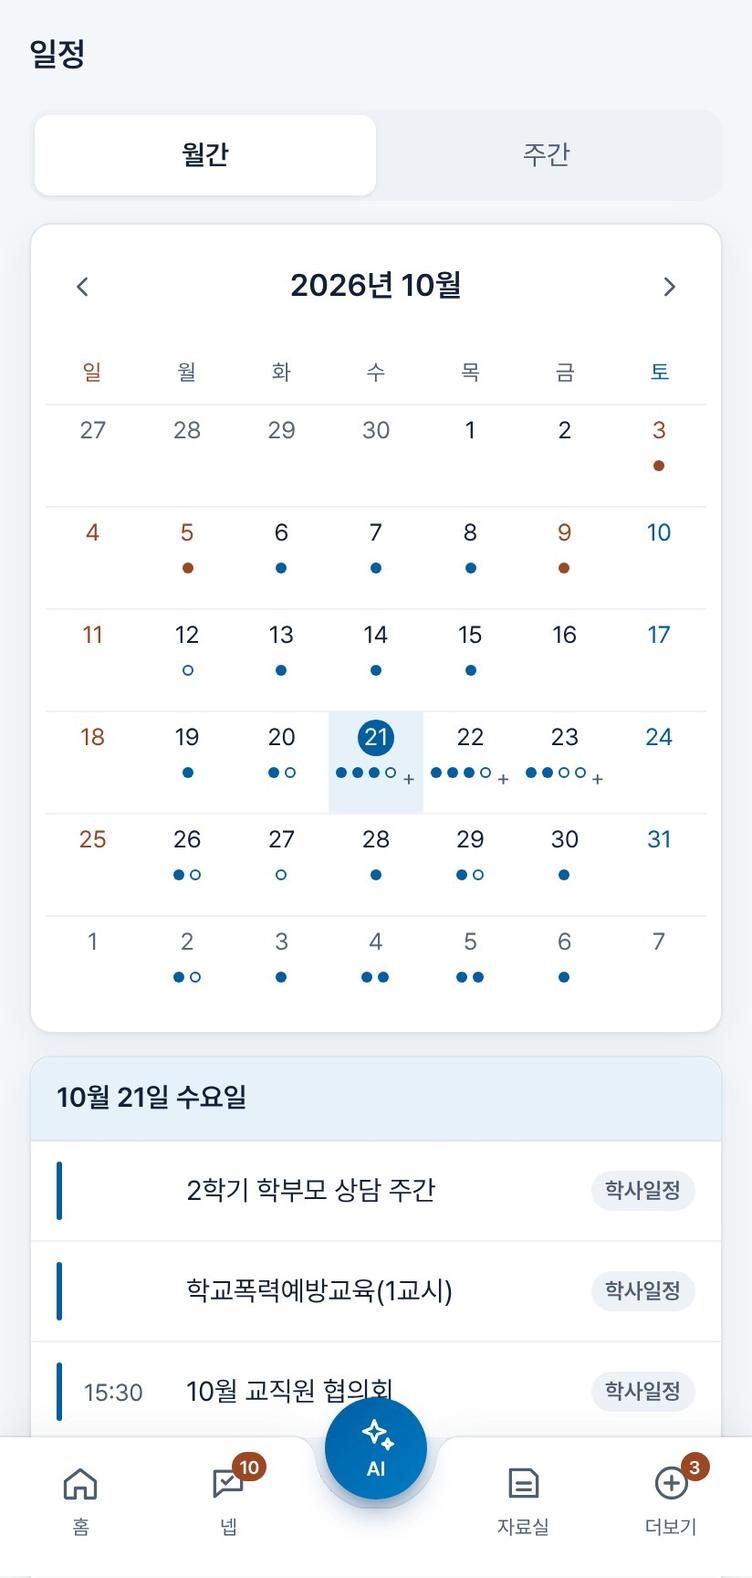
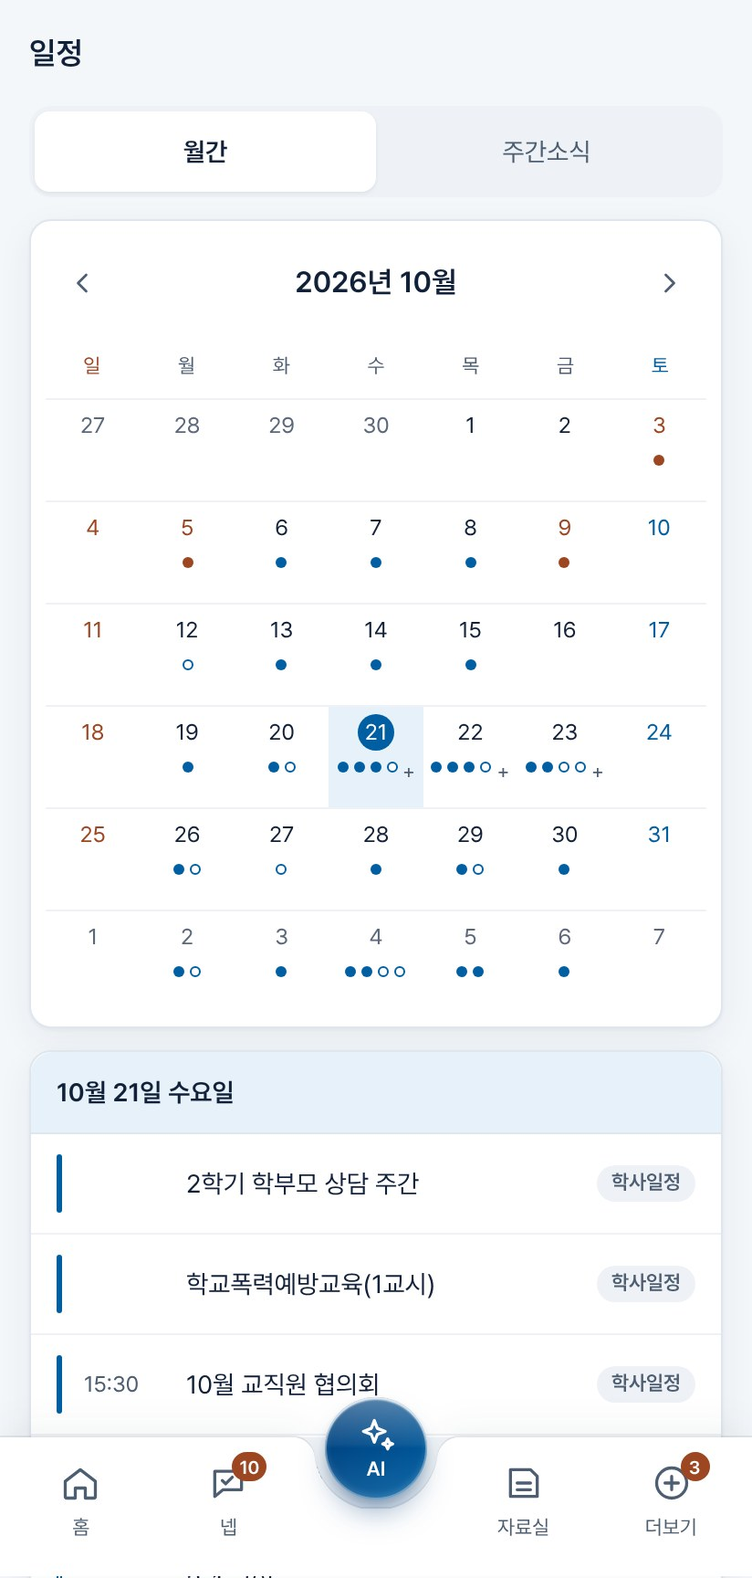
홈 화면 바뀐 것(10/28) 반영 — 빼꼼 판·내 수업/내 일정 두 칸, 오늘 알림 카드 없앰, 저녁 7시 내일 화면
- 홈·홈 아래·빼꼼 그림을 지금 앱으로 다시 찍음(빼꼼 알림판 첫 줄 「금주의 기도제목」, 숨긴 구기대회 카드 빠짐)
- 일정 「월간 | 주간소식」·주간소식 「나에게만」 그림과 설명, 옛 「주간」 목록 그림(calendar-list) 지움
- 첫 화면 「10월 28일에 바뀐 것」, 자주 묻는 질문(오늘 알림 카드·저녁 내일 화면)

Claude-Session: https://claude.ai/code/session_01PnRkvZMXyWQ3PDuECRmpn5

diff --git a/img/rects.js b/img/rects.js
@@ -1,3 +1,3 @@
 /* 화면마다 동그라미 칠 자리(412×864 기준, 찍을 때 잰 값) — R(화면, 키) */
-window.SHOT_RECTS = {"ai-board": {"button": [31, 446, 162, 40], "card": [16, 286, 380, 213], "head": [31, 297, 177, 20], "question": [73, 68, 323, 98]}, "ai-deep": {"answer": [16, 202, 323, 464], "feedback": [20, 672, 41, 36], "question": [73, 68, 323, 124]}, "ai-deep-ready": {"deep": [72, 588, 211, 34], "file": [16, 499, 380, 38], "input": [72, 634, 268, 72], "plus": [16, 658, 48, 48], "send": [348, 658, 48, 48]}, "ai-form": {"answer": [16, 124, 323, 308], "feedback": [20, 438, 41, 36], "links": [267, 372, 37, 19], "question": [147, 68, 249, 46]}, "ai-home": {"chip_first": [16, 202, 380, 46], "chips": [16, 201, 380, 236], "clear": [333, 12, 71, 44], "greet": [16, 100, 380, 30], "head": [16, 16, 74, 36], "hello": [16, 134, 380, 39], "input": [72, 658, 268, 48], "mic": [348, 658, 48, 48], "notice": [16, 718, 380, 33], "plus": [16, 658, 48, 48], "tab_ai": [166, 792, 81, 44]}, "ai-lesson": {"body": [31, 501, 350, 482], "card": [16, 260, 380, 834], "head": [17, 261, 378, 41], "question": [73, 68, 323, 72]}, "ai-lesson-2": {"body": [31, 48, 350, 482], "button": [31, 560, 111, 40]}, "ai-letter": {"body": [31, 620, 350, 274], "card": [16, 286, 380, 671], "head": [17, 287, 378, 41], "question": [73, 68, 323, 72]}, "ai-letter-2": {"body": [31, 276, 350, 274], "button": [31, 560, 151, 40], "feedback": [20, 619, 41, 36]}, "ai-library": {"answer": [16, 124, 323, 438], "feedback": [20, 568, 41, 36], "links": [65, 450, 37, 19], "question": [133, 68, 263, 46]}, "ai-lost": {"button": [31, 586, 84, 40], "card": [16, 312, 380, 327], "photo": [31, 366, 96, 96], "question": [73, 68, 323, 124]}, "ai-nep": {"button": [31, 726, 84, 40], "card": [16, 286, 380, 493], "edit": [127, 738, 89, 16], "people": [31, 589, 350, 84], "question": [73, 68, 323, 72]}, "ai-number": {"button": [31, 449, 96, 40], "card": [16, 260, 380, 242], "question": [81, 68, 315, 46]}, "ai-parent": {"answer": [16, 150, 323, 386], "feedback": [20, 542, 41, 36], "question": [73, 68, 323, 72]}, "ai-plus": {"attach": [22, 523, 284, 60], "close": [16, 658, 48, 48], "deep": [22, 584, 284, 60], "menu": [16, 517, 296, 133]}, "ai-progress": {"button": [31, 504, 108, 40], "card": [16, 286, 380, 271], "question": [73, 68, 323, 72]}, "ai-recruit": {"button": [31, 546, 68, 40], "card": [16, 312, 380, 287], "question": [73, 68, 323, 72], "reason": [31, 480, 350, 35]}, "ai-repair": {"button": [31, 576, 96, 40], "card": [16, 260, 380, 369], "head": [17, 261, 378, 41], "question": [73, 68, 323, 72]}, "ai-sign": {"button": [31, 705, 175, 40], "card": [16, 286, 380, 472], "people": [31, 544, 350, 151], "question": [73, 68, 323, 72]}, "ai-swap": {"calendar": [31, 364, 75, 14], "card": [16, 312, 380, 703], "question": [73, 68, 323, 72]}, "ai-typed": {"input": [72, 658, 268, 48], "plus": [16, 658, 48, 48], "send": [348, 658, 48, 48]}, "ai-week": {"answer": [16, 124, 323, 308], "feedback": [20, 438, 41, 36], "question": [214, 68, 182, 46]}, "alerts": {}, "alerts-done": {"clear": [316, 379, 80, 44], "summary": [16, 331, 380, 44]}, "board-alert": {"all": [174, 569, 92, 40], "fire": [150, 233, 113, 56], "kind": [266, 137, 112, 44], "offline": [31, 679, 350, 16], "presets": [31, 233, 350, 118], "submit": [31, 701, 350, 50]}, "board-alert-confirm": {"cancel": [16, 804, 136, 44], "go": [160, 804, 236, 44], "sheet": [0, 0, 412, 864], "text": [16, 720, 380, 72], "where": [16, 668, 380, 40]}, "board-grades": {"g1": [31, 531, 113, 40], "g2": [150, 531, 113, 40], "offline": [31, 602, 350, 16], "submit": [31, 624, 350, 50]}, "board-memo": {"body": [31, 233, 350, 110], "kind": [150, 137, 112, 44], "note": [31, 358, 350, 32], "submit": [31, 600, 350, 50]}, "board-photo": {"body": [31, 233, 350, 110], "photoChip": [105, 358, 90, 36], "submit": [31, 701, 350, 50], "thumb": [43, 456, 103, 80]}, "board-pick": {"all": [16, 535, 380, 44], "done": [16, 798, 380, 50], "grid": [16, 591, 380, 94], "legend": [16, 697, 380, 32], "off": [170, 641, 71, 44], "tabs": [16, 481, 380, 42]}, "board-send": {"body": [31, 233, 350, 110], "kinds": [31, 134, 350, 50], "mine": [272, 485, 109, 40], "options": [31, 358, 350, 78], "submit": [31, 602, 350, 50], "what": [31, 204, 350, 21], "where": [31, 456, 350, 115]}, "board-sent": {"done": [31, 528, 90, 22], "end": [31, 408, 50, 36], "live": [82, 381, 34, 16], "liveChip": [31, 378, 96, 22], "over": [31, 677, 88, 22], "reserve": [300, 129, 81, 16], "tabs": [247, 59, 134, 42], "unshown": [126, 733, 100, 22], "waitChip": [31, 185, 69, 22]}, "board-voice-rec": {"status": [43, 336, 326, 92], "stop": [287, 388, 82, 40]}, "calendar": {"today": [196, 394, 20, 20]}, "calendar-list": {}, "exam-card": {"ends": [31, 178, 350, 161], "head": [31, 87, 152, 20], "slots": [31, 134, 350, 32], "stats": [31, 351, 350, 73]}, "exam-card-pad": {"legend": [31, 150, 350, 16], "n24": [183, 307, 47, 40], "n7": [334, 195, 47, 40], "n9": [82, 239, 47, 40], "names": [31, 403, 350, 113], "stats": [31, 41, 350, 73]}, "exam-card-save": {"names": [31, 292, 350, 113], "note": [31, 470, 350, 48], "save": [31, 550, 350, 50]}, "forms": {"trip": [17, 110, 378, 56]}, "found": {"head": [16, 24, 380, 71]}, "home": {"bell": [360, 22, 44, 44], "changed": [339, 669, 29, 16], "hero": [16, 106, 380, 66], "nep": [61, 503, 198, 26], "now": [160, 611, 33, 16], "tabAi": [166, 792, 81, 44], "tabMore": [327, 792, 81, 61], "tabNep": [85, 792, 81, 61], "tiles": [275, 354, 121, 94], "tt": [31, 569, 93, 21]}, "home-3": {"alerts": [31, 16, 55, 21], "meal": [31, 376, 26, 21], "upcoming": [31, 533, 81, 21]}, "home-sports": {"card": [16, 16, 380, 493], "link": [16, 16, 380, 493]}, "library": {"chips": [72, 214, 52, 39], "pinned": [16, 282, 380, 95], "search": [52, 169, 331, 23], "write": [310, 720, 86, 48]}, "library-new": {"kind": [206, 440, 172, 36], "section": [31, 120, 350, 48], "submit": [31, 624, 350, 50], "title": [31, 210, 350, 48]}, "library-post": {"download": [31, 211, 350, 44]}, "library-search": {"result": [16, 282, 380, 95], "search": [52, 169, 331, 23]}, "login": {"go": [58, 554, 296, 50], "name": [58, 299, 296, 48], "pw": [58, 467, 296, 48]}, "lost-found": {"add": [126, 679, 161, 54], "box": [16, 76, 380, 680], "item": [184, 368, 81, 81], "note": [16, 756, 380, 43], "returned": [286, 16, 110, 44], "student": [251, 767, 50, 13]}, "lost-found-2": {"add": [126, 643, 161, 54], "note": [16, 720, 380, 43], "student": [251, 731, 50, 13]}, "lost-found-add": {"photo": [16, 154, 380, 212], "place": [16, 558, 380, 73], "submit": [149, 863, 247, 44]}, "lost-found-detail": {"back": [16, 804, 380, 44], "info": [16, 572, 380, 133]}, "meals": {}, "more-2": {"lost": [17, 228, 378, 56], "noti": [17, 524, 378, 56], "sign": [17, 376, 378, 56], "signature": [17, 580, 378, 56]}, "more-tools": {"board": [17, 383, 378, 56], "lost": [17, 643, 378, 56], "tools": [17, 439, 378, 56]}, "more-top": {"avatar": [107, 128, 203, 17]}, "nep-add": {"add": [16, 448, 253, 44]}, "nep-big": {"sheet": [0, 0, 412, 864]}, "nep-board": {"meter": [16, 173, 380, 76], "pending": [16, 261, 380, 21], "remind": [16, 328, 380, 44]}, "nep-board-replies": {"replies": [17, 509, 378, 37]}, "nep-board-submit": {"downloadAll": [275, 420, 121, 44]}, "nep-cal": {"events": [35, 292, 55, 20], "post": [35, 438, 342, 44]}, "nep-compose": {"plus": [16, 808, 44, 44], "send": [312, 808, 84, 44], "text": [16, 85, 380, 144], "to": [53, 52, 49, 25]}, "nep-compose-due": {"chip": [16, 237, 152, 29], "due": [43, 281, 261, 36], "send": [312, 808, 84, 44]}, "nep-fwd": {"card": [12, 276, 341, 358], "fwd": [307, 281, 39, 36]}, "nep-fwd-org": {"banner": [30, 148, 316, 40], "bar": [284, 702, 104, 41]}, "nep-inbox": {"chip": [341, 457, 51, 21], "me": [0, 128, 412, 68], "recruit": [0, 264, 412, 68], "row": [0, 196, 412, 68], "tabs": [16, 76, 380, 48], "unread": [372, 230, 20, 20]}, "nep-inbox-2": {"over": [332, 725, 60, 21], "park": [0, 623, 412, 68], "parkChip": [332, 657, 60, 21]}, "nep-link": {"ack": [27, 315, 60, 44], "card": [12, 118, 341, 254], "link": [27, 245, 311, 60]}, "nep-me": {"card": [12, 118, 341, 360], "events": [27, 281, 55, 20], "head": [0, 0, 412, 61]}, "nep-me-due": {"chip": [12, 649, 152, 29], "input": [64, 685, 260, 68], "last": [12, 423, 341, 360], "plus": [12, 709, 44, 44], "send": [332, 709, 68, 44]}, "nep-org": {"all": [14, 136, 384, 70], "dept": [15, 382, 382, 45], "deptCheck": [349, 383, 44, 44], "search": [348, 20, 44, 44], "tabInbox": [144, 80, 124, 40], "tabs": [16, 76, 380, 48], "top": [15, 248, 382, 89]}, "nep-org-groups": {"role": [15, 505, 382, 44], "roleCheck": [349, 505, 44, 44], "subj": [15, 417, 382, 45], "subjCheck": [349, 418, 44, 44]}, "nep-org-open": {"card": [15, 120, 382, 270], "check": [349, 256, 44, 44], "head": [349, 121, 44, 44], "me": [35, 352, 310, 32], "name": [35, 262, 310, 32]}, "nep-org-picked": {"bar": [14, 692, 384, 61], "checks": [15, 165, 382, 225], "write": [283, 702, 105, 41]}, "nep-org-search": {"found": [35, 277, 310, 32], "input": [50, 82, 298, 36]}, "nep-plus": {"ack": [16, 536, 380, 56], "files": [16, 472, 380, 56], "schedule": [16, 728, 380, 56], "sheet": [0, 0, 412, 864], "submit": [16, 664, 380, 56], "task": [16, 600, 380, 56], "urgent": [16, 792, 380, 56]}, "nep-recruit": {"apply": [27, 628, 72, 44], "card": [12, 502, 341, 182], "duty": [12, 308, 341, 184], "head": [0, 0, 412, 61], "old": [12, 34, 341, 230], "oldState": [27, 159, 127, 44]}, "nep-room": {"bubble": [209, 643, 191, 63], "card": [12, 276, 341, 358], "done": [27, 576, 72, 44], "due": [27, 530, 311, 36], "head": [0, 0, 412, 61], "input": [64, 709, 260, 44], "plus": [12, 709, 44, 44], "send": [332, 709, 68, 44]}, "nep-room-done": {"done": [27, 576, 100, 44]}, "nep-room-menu": {"dots": [360, 10, 40, 40], "item": [241, 59, 158, 44]}, "nep-room-reply": {"input": [64, 808, 260, 44], "last": [12, 397, 341, 129], "mine": [131, 289, 269, 63], "send": [332, 808, 68, 44], "theirs": [12, 118, 341, 162]}, "nep-sent": {"one": [0, 264, 412, 68], "progress": [0, 468, 412, 68], "sched": [0, 128, 412, 68], "tabs": [16, 76, 380, 48]}, "nep-swipe": {"clear": [328, 196, 84, 68], "row": [0, 196, 412, 68]}, "notifications-off": {"nurse": [333, 308, 48, 28], "on": [62, 147, 319, 44]}, "notifications-on": {"nurse": [333, 390, 48, 28], "test": [63, 177, 318, 44]}, "nurse": {"open": [31, 139, 350, 50]}, "password": {"go": [31, 297, 350, 50], "new": [31, 121, 350, 48]}, "pc-noti": {"on": [56, 89, 325, 20], "test": [56, 165, 325, 44], "tray": [56, 121, 325, 32]}, "pg-class": {"chips": [16, 77, 380, 96], "csv": [304, 17, 92, 44]}, "pg-month": {"left": [33, 354, 346, 17], "nav": [16, 205, 380, 40], "row": [16, 396, 380, 118], "streak": [299, 270, 80, 21], "summary": [16, 257, 380, 127], "toggle": [16, 139, 380, 54]}, "pg-month-2": {"legend": [16, 614, 380, 40], "off": [77, 57, 24, 32], "row": [16, 267, 380, 118], "star": [53, 64, 16, 17], "today": [77, 91, 24, 32], "todo": [53, 342, 24, 32]}, "pg-month-pick": {"head": [31, 89, 121, 21], "slot": [17, 300, 378, 29]}, "pg-today": {"card": [16, 229, 380, 142], "date": [68, 139, 216, 44], "map": [206, 80, 187, 44], "save": [309, 703, 87, 44], "segment": [16, 77, 380, 50]}, "pg-today-classes": {"classes": [17, 524, 378, 46], "row": [17, 667, 378, 48]}, "pg-week": {"hint": [16, 605, 380, 17], "list": [16, 139, 380, 54], "nav": [16, 205, 380, 40], "toggle": [16, 139, 380, 54]}, "pg-week-pick": {"head": [31, 400, 120, 21], "row": [17, 142, 378, 72]}, "record": {"privacy": [16, 42, 253, 16]}, "record-activities": {"activities": [31, 170, 350, 425], "subject": [31, 88, 350, 48]}, "record-input": {"count": [31, 403, 350, 48], "tabs": [16, 90, 380, 50], "upload": [31, 485, 350, 21]}, "record-kinds": {"gwasetuk": [31, 265, 65, 20]}, "record-options": {"generate": [31, 383, 350, 50], "length": [31, 61, 350, 21], "model": [31, 301, 350, 48]}, "record-result": {"basis": [31, 532, 350, 90], "result": [31, 330, 350, 166]}, "sign-file": {"doc": [312, 103, 56, 21], "sign": [31, 181, 252, 48]}, "sign-file-new": {"file": [31, 110, 350, 117], "hint": [31, 192, 350, 35], "title": [31, 271, 350, 48], "who": [31, 335, 350, 23]}, "sign-file-new-bottom": {"me": [31, 667, 350, 21], "next": [31, 705, 350, 44]}, "sign-list": {"file": [30, 89, 157, 26], "meeting": [226, 90, 155, 26], "todo": [16, 166, 380, 23]}, "sign-meeting": {"hand": [295, 141, 71, 17], "roster": [17, 234, 378, 464], "sign": [31, 126, 252, 48]}, "sign-meeting-new": {"chips": [76, 455, 95, 40], "picker": [31, 401, 350, 44], "title": [31, 120, 350, 48], "when": [31, 212, 169, 48]}, "sign-meeting-new-bottom": {"group": [71, 452, 310, 48], "me": [31, 617, 350, 21], "members": [31, 511, 350, 62], "submit": [31, 705, 350, 44]}, "sign-mine": {}, "signature": {"default": [267, 96, 112, 21], "hand": [16, 77, 380, 302], "stamp": [16, 391, 380, 302]}, "signature-draw": {"pad": [17, 567, 378, 224], "save": [338, 804, 58, 44]}, "signature-empty": {"draw": [33, 318, 100, 44], "stamp": [33, 633, 130, 44]}, "sports": {"bracket": [16, 77, 380, 262], "match": [29, 394, 354, 129], "rounds": [98, 352, 50, 32], "score": [116, 176, 17, 14]}, "sub-calc": {"calendar": [31, 466, 350, 21], "date": [31, 316, 169, 44], "go": [31, 501, 350, 44], "periods": [31, 374, 350, 113], "reason": [212, 316, 169, 44], "tabs": [16, 77, 380, 50], "teacher": [31, 229, 350, 44]}, "sub-dates": {"byHand": [278, 520, 71, 17], "dates": [43, 117, 255, 68], "request": [31, 508, 235, 40], "tools": [31, 460, 350, 36]}, "sub-inbox": {"pending": [16, 316, 380, 21], "proxy": [31, 651, 220, 40], "register": [16, 139, 380, 44], "rooms": [16, 243, 380, 65], "tab": [268, 80, 125, 44]}, "sub-requests": {"accept": [31, 611, 185, 40], "byHand": [228, 623, 71, 17], "card": [16, 407, 380, 257], "reject": [307, 611, 56, 40], "tab": [206, 80, 187, 44]}, "sub-result": {"calendar": [31, 120, 350, 42], "date": [43, 317, 279, 40], "firstStep": [31, 264, 350, 23], "plan1": [31, 207, 350, 49]}, "today": {"board": [31, 90, 52, 21], "days": [178, 271, 42, 23], "mynep": [31, 926, 42, 21]}, "today-2": {"changes": [17, 302, 378, 46], "events": [31, 72, 69, 21]}, "tt-class": {"picker": [16, 135, 380, 44], "tabs": [16, 77, 380, 50]}, "tt-free": {"name": [31, 395, 60, 40], "rooms": [16, 212, 380, 123], "teachers": [16, 347, 380, 343]}, "tt-free-nep": {}, "tt-my": {"away": [191, 516, 61, 87], "band": [191, 226, 61, 87], "changed": [191, 606, 61, 68], "pending": [322, 317, 61, 68], "picker": [16, 135, 380, 44], "tabs": [16, 77, 380, 50], "today": [191, 389, 61, 68]}, "tt-pop": {"band": [191, 226, 61, 87], "pop": [29, 317, 354, 115]}, "weekly": {}};
+window.SHOT_RECTS = {"ai-board": {"button": [31, 446, 162, 40], "card": [16, 286, 380, 213], "head": [31, 297, 177, 20], "question": [73, 68, 323, 98]}, "ai-deep": {"answer": [16, 202, 323, 464], "feedback": [20, 672, 41, 36], "question": [73, 68, 323, 124]}, "ai-deep-ready": {"deep": [72, 588, 211, 34], "file": [16, 499, 380, 38], "input": [72, 634, 268, 72], "plus": [16, 658, 48, 48], "send": [348, 658, 48, 48]}, "ai-form": {"answer": [16, 124, 323, 308], "feedback": [20, 438, 41, 36], "links": [267, 372, 37, 19], "question": [147, 68, 249, 46]}, "ai-home": {"chip_first": [16, 202, 380, 46], "chips": [16, 201, 380, 236], "clear": [333, 12, 71, 44], "greet": [16, 100, 380, 30], "head": [16, 16, 74, 36], "hello": [16, 134, 380, 39], "input": [72, 658, 268, 48], "mic": [348, 658, 48, 48], "notice": [16, 718, 380, 33], "plus": [16, 658, 48, 48], "tab_ai": [166, 792, 81, 44]}, "ai-lesson": {"body": [31, 501, 350, 482], "card": [16, 260, 380, 834], "head": [17, 261, 378, 41], "question": [73, 68, 323, 72]}, "ai-lesson-2": {"body": [31, 48, 350, 482], "button": [31, 560, 111, 40]}, "ai-letter": {"body": [31, 620, 350, 274], "card": [16, 286, 380, 671], "head": [17, 287, 378, 41], "question": [73, 68, 323, 72]}, "ai-letter-2": {"body": [31, 276, 350, 274], "button": [31, 560, 151, 40], "feedback": [20, 619, 41, 36]}, "ai-library": {"answer": [16, 124, 323, 438], "feedback": [20, 568, 41, 36], "links": [65, 450, 37, 19], "question": [133, 68, 263, 46]}, "ai-lost": {"button": [31, 586, 84, 40], "card": [16, 312, 380, 327], "photo": [31, 366, 96, 96], "question": [73, 68, 323, 124]}, "ai-nep": {"button": [31, 726, 84, 40], "card": [16, 286, 380, 493], "edit": [127, 738, 89, 16], "people": [31, 589, 350, 84], "question": [73, 68, 323, 72]}, "ai-number": {"button": [31, 449, 96, 40], "card": [16, 260, 380, 242], "question": [81, 68, 315, 46]}, "ai-parent": {"answer": [16, 150, 323, 386], "feedback": [20, 542, 41, 36], "question": [73, 68, 323, 72]}, "ai-plus": {"attach": [22, 523, 284, 60], "close": [16, 658, 48, 48], "deep": [22, 584, 284, 60], "menu": [16, 517, 296, 133]}, "ai-progress": {"button": [31, 504, 108, 40], "card": [16, 286, 380, 271], "question": [73, 68, 323, 72]}, "ai-recruit": {"button": [31, 546, 68, 40], "card": [16, 312, 380, 287], "question": [73, 68, 323, 72], "reason": [31, 480, 350, 35]}, "ai-repair": {"button": [31, 576, 96, 40], "card": [16, 260, 380, 369], "head": [17, 261, 378, 41], "question": [73, 68, 323, 72]}, "ai-sign": {"button": [31, 705, 175, 40], "card": [16, 286, 380, 472], "people": [31, 544, 350, 151], "question": [73, 68, 323, 72]}, "ai-swap": {"calendar": [31, 364, 75, 14], "card": [16, 312, 380, 703], "question": [73, 68, 323, 72]}, "ai-typed": {"input": [72, 658, 268, 48], "plus": [16, 658, 48, 48], "send": [348, 658, 48, 48]}, "ai-week": {"answer": [16, 124, 323, 308], "feedback": [20, 438, 41, 36], "question": [214, 68, 182, 46]}, "alerts": {}, "alerts-done": {"clear": [316, 379, 80, 44], "summary": [16, 331, 380, 44]}, "board-alert": {"all": [174, 569, 92, 40], "fire": [150, 233, 113, 56], "kind": [266, 137, 112, 44], "offline": [31, 679, 350, 16], "presets": [31, 233, 350, 118], "submit": [31, 701, 350, 50]}, "board-alert-confirm": {"cancel": [16, 804, 136, 44], "go": [160, 804, 236, 44], "sheet": [0, 0, 412, 864], "text": [16, 720, 380, 72], "where": [16, 668, 380, 40]}, "board-grades": {"g1": [31, 531, 113, 40], "g2": [150, 531, 113, 40], "offline": [31, 602, 350, 16], "submit": [31, 624, 350, 50]}, "board-memo": {"body": [31, 233, 350, 110], "kind": [150, 137, 112, 44], "note": [31, 358, 350, 32], "submit": [31, 600, 350, 50]}, "board-photo": {"body": [31, 233, 350, 110], "photoChip": [105, 358, 90, 36], "submit": [31, 701, 350, 50], "thumb": [43, 456, 103, 80]}, "board-pick": {"all": [16, 535, 380, 44], "done": [16, 798, 380, 50], "grid": [16, 591, 380, 94], "legend": [16, 697, 380, 32], "off": [170, 641, 71, 44], "tabs": [16, 481, 380, 42]}, "board-send": {"body": [31, 233, 350, 110], "kinds": [31, 134, 350, 50], "mine": [272, 485, 109, 40], "options": [31, 358, 350, 78], "submit": [31, 602, 350, 50], "what": [31, 204, 350, 21], "where": [31, 456, 350, 115]}, "board-sent": {"done": [31, 528, 90, 22], "end": [31, 408, 50, 36], "live": [82, 381, 34, 16], "liveChip": [31, 378, 96, 22], "over": [31, 677, 88, 22], "reserve": [300, 129, 81, 16], "tabs": [247, 59, 134, 42], "unshown": [126, 733, 100, 22], "waitChip": [31, 185, 69, 22]}, "board-voice-rec": {"status": [43, 336, 326, 92], "stop": [287, 388, 82, 40]}, "calendar": {"grid": [16, 120, 380, 443], "seg": [206, 61, 187, 44], "today": [196, 391, 20, 20]}, "exam-card": {"ends": [31, 178, 350, 161], "head": [31, 87, 152, 20], "slots": [31, 134, 350, 32], "stats": [31, 351, 350, 73]}, "exam-card-pad": {"legend": [31, 150, 350, 16], "n24": [183, 307, 47, 40], "n7": [334, 195, 47, 40], "n9": [82, 239, 47, 40], "names": [31, 403, 350, 113], "stats": [31, 41, 350, 73]}, "exam-card-save": {"names": [31, 292, 350, 113], "note": [31, 470, 350, 48], "save": [31, 550, 350, 50]}, "forms": {"trip": [17, 110, 378, 56]}, "found": {"head": [16, 24, 380, 71]}, "home": {"bell": [360, 16, 44, 44], "changed": [326, 606, 55, 71], "hero": [16, 96, 380, 61], "hint": [16, 402, 380, 44], "nep": [16, 478, 380, 54], "now": [149, 606, 55, 71], "peek": [16, 168, 380, 142], "pill": [282, 179, 101, 28], "tabAi": [166, 792, 81, 44], "tabMore": [327, 792, 81, 61], "tabNep": [85, 792, 81, 61], "tileLesson": [16, 322, 186, 72], "tileSched": [210, 322, 186, 72], "tiles": [16, 322, 380, 72], "tt": [321, 545, 68, 44]}, "home-3": {"cal": [349, 430, 40, 44], "meal": [31, 291, 24, 20], "upcoming": [31, 442, 76, 20], "weekly": [280, 430, 64, 44]}, "home-sports": {"card": [16, 16, 380, 493], "link": [16, 16, 380, 493]}, "library": {"chips": [72, 214, 52, 39], "pinned": [16, 282, 380, 95], "search": [52, 169, 331, 23], "write": [310, 720, 86, 48]}, "library-new": {"kind": [206, 440, 172, 36], "section": [31, 120, 350, 48], "submit": [31, 624, 350, 50], "title": [31, 210, 350, 48]}, "library-post": {"download": [31, 211, 350, 44]}, "library-search": {"result": [16, 282, 380, 95], "search": [52, 169, 331, 23]}, "login": {"go": [58, 554, 296, 50], "name": [58, 299, 296, 48], "pw": [58, 467, 296, 48]}, "lost-found": {"add": [126, 679, 161, 54], "box": [16, 76, 380, 680], "item": [184, 368, 81, 81], "note": [16, 756, 380, 43], "returned": [286, 16, 110, 44], "student": [251, 767, 50, 13]}, "lost-found-2": {"add": [126, 643, 161, 54], "note": [16, 720, 380, 43], "student": [251, 731, 50, 13]}, "lost-found-add": {"photo": [16, 154, 380, 212], "place": [16, 558, 380, 73], "submit": [149, 863, 247, 44]}, "lost-found-detail": {"back": [16, 804, 380, 44], "info": [16, 572, 380, 133]}, "meals": {}, "more-2": {"lost": [17, 228, 378, 56], "noti": [17, 524, 378, 56], "sign": [17, 376, 378, 56], "signature": [17, 580, 378, 56]}, "more-tools": {"board": [17, 383, 378, 56], "lost": [17, 643, 378, 56], "tools": [17, 439, 378, 56]}, "more-top": {"avatar": [107, 128, 203, 17]}, "nep-add": {"add": [16, 448, 253, 44]}, "nep-big": {"sheet": [0, 0, 412, 864]}, "nep-board": {"meter": [16, 173, 380, 76], "pending": [16, 261, 380, 21], "remind": [16, 328, 380, 44]}, "nep-board-replies": {"replies": [17, 509, 378, 37]}, "nep-board-submit": {"downloadAll": [275, 420, 121, 44]}, "nep-cal": {"events": [35, 292, 55, 20], "post": [35, 438, 342, 44]}, "nep-compose": {"plus": [16, 808, 44, 44], "send": [312, 808, 84, 44], "text": [16, 85, 380, 144], "to": [53, 52, 49, 25]}, "nep-compose-due": {"chip": [16, 237, 152, 29], "due": [43, 281, 261, 36], "send": [312, 808, 84, 44]}, "nep-fwd": {"card": [12, 276, 341, 358], "fwd": [307, 281, 39, 36]}, "nep-fwd-org": {"banner": [30, 148, 316, 40], "bar": [284, 702, 104, 41]}, "nep-inbox": {"chip": [341, 457, 51, 21], "me": [0, 128, 412, 68], "recruit": [0, 264, 412, 68], "row": [0, 196, 412, 68], "tabs": [16, 76, 380, 48], "unread": [372, 230, 20, 20]}, "nep-inbox-2": {"over": [332, 725, 60, 21], "park": [0, 623, 412, 68], "parkChip": [332, 657, 60, 21]}, "nep-link": {"ack": [27, 315, 60, 44], "card": [12, 118, 341, 254], "link": [27, 245, 311, 60]}, "nep-me": {"card": [12, 118, 341, 360], "events": [27, 281, 55, 20], "head": [0, 0, 412, 61]}, "nep-me-due": {"chip": [12, 649, 152, 29], "input": [64, 685, 260, 68], "last": [12, 423, 341, 360], "plus": [12, 709, 44, 44], "send": [332, 709, 68, 44]}, "nep-org": {"all": [14, 136, 384, 70], "dept": [15, 382, 382, 45], "deptCheck": [349, 383, 44, 44], "search": [348, 20, 44, 44], "tabInbox": [144, 80, 124, 40], "tabs": [16, 76, 380, 48], "top": [15, 248, 382, 89]}, "nep-org-groups": {"role": [15, 505, 382, 44], "roleCheck": [349, 505, 44, 44], "subj": [15, 417, 382, 45], "subjCheck": [349, 418, 44, 44]}, "nep-org-open": {"card": [15, 120, 382, 270], "check": [349, 256, 44, 44], "head": [349, 121, 44, 44], "me": [35, 352, 310, 32], "name": [35, 262, 310, 32]}, "nep-org-picked": {"bar": [14, 692, 384, 61], "checks": [15, 165, 382, 225], "write": [283, 702, 105, 41]}, "nep-org-search": {"found": [35, 277, 310, 32], "input": [50, 82, 298, 36]}, "nep-plus": {"ack": [16, 536, 380, 56], "files": [16, 472, 380, 56], "schedule": [16, 728, 380, 56], "sheet": [0, 0, 412, 864], "submit": [16, 664, 380, 56], "task": [16, 600, 380, 56], "urgent": [16, 792, 380, 56]}, "nep-recruit": {"apply": [27, 628, 72, 44], "card": [12, 502, 341, 182], "duty": [12, 308, 341, 184], "head": [0, 0, 412, 61], "old": [12, 34, 341, 230], "oldState": [27, 159, 127, 44]}, "nep-room": {"bubble": [209, 643, 191, 63], "card": [12, 276, 341, 358], "done": [27, 576, 72, 44], "due": [27, 530, 311, 36], "head": [0, 0, 412, 61], "input": [64, 709, 260, 44], "plus": [12, 709, 44, 44], "send": [332, 709, 68, 44]}, "nep-room-done": {"done": [27, 576, 100, 44]}, "nep-room-menu": {"dots": [360, 10, 40, 40], "item": [241, 59, 158, 44]}, "nep-room-reply": {"input": [64, 808, 260, 44], "last": [12, 397, 341, 129], "mine": [131, 289, 269, 63], "send": [332, 808, 68, 44], "theirs": [12, 118, 341, 162]}, "nep-sent": {"one": [0, 264, 412, 68], "progress": [0, 468, 412, 68], "sched": [0, 128, 412, 68], "tabs": [16, 76, 380, 48]}, "nep-swipe": {"clear": [328, 196, 84, 68], "row": [0, 196, 412, 68]}, "notifications-off": {"nurse": [333, 308, 48, 28], "on": [62, 147, 319, 44]}, "notifications-on": {"nurse": [333, 390, 48, 28], "test": [63, 177, 318, 44]}, "nurse": {"open": [31, 139, 350, 50]}, "password": {"go": [31, 297, 350, 50], "new": [31, 121, 350, 48]}, "pc-noti": {"on": [56, 89, 325, 20], "test": [56, 165, 325, 44], "tray": [56, 121, 325, 32]}, "pg-class": {"chips": [16, 77, 380, 96], "csv": [304, 17, 92, 44]}, "pg-month": {"left": [33, 354, 346, 17], "nav": [16, 205, 380, 40], "row": [16, 396, 380, 118], "streak": [299, 270, 80, 21], "summary": [16, 257, 380, 127], "toggle": [16, 139, 380, 54]}, "pg-month-2": {"legend": [16, 614, 380, 40], "off": [77, 57, 24, 32], "row": [16, 267, 380, 118], "star": [53, 64, 16, 17], "today": [77, 91, 24, 32], "todo": [53, 342, 24, 32]}, "pg-month-pick": {"head": [31, 89, 121, 21], "slot": [17, 300, 378, 29]}, "pg-today": {"card": [16, 229, 380, 142], "date": [68, 139, 216, 44], "map": [206, 80, 187, 44], "save": [309, 703, 87, 44], "segment": [16, 77, 380, 50]}, "pg-today-classes": {"classes": [17, 524, 378, 46], "row": [17, 667, 378, 48]}, "pg-week": {"hint": [16, 605, 380, 17], "list": [16, 139, 380, 54], "nav": [16, 205, 380, 40], "toggle": [16, 139, 380, 54]}, "pg-week-pick": {"head": [31, 400, 120, 21], "row": [17, 142, 378, 72]}, "record": {"privacy": [16, 42, 253, 16]}, "record-activities": {"activities": [31, 170, 350, 425], "subject": [31, 88, 350, 48]}, "record-input": {"count": [31, 403, 350, 48], "tabs": [16, 90, 380, 50], "upload": [31, 485, 350, 21]}, "record-kinds": {"gwasetuk": [31, 265, 65, 20]}, "record-options": {"generate": [31, 383, 350, 50], "length": [31, 61, 350, 21], "model": [31, 301, 350, 48]}, "record-result": {"basis": [31, 532, 350, 90], "result": [31, 330, 350, 166]}, "sign-file": {"doc": [312, 103, 56, 21], "sign": [31, 181, 252, 48]}, "sign-file-new": {"file": [31, 110, 350, 117], "hint": [31, 192, 350, 35], "title": [31, 271, 350, 48], "who": [31, 335, 350, 23]}, "sign-file-new-bottom": {"me": [31, 667, 350, 21], "next": [31, 705, 350, 44]}, "sign-list": {"file": [30, 89, 157, 26], "meeting": [226, 90, 155, 26], "todo": [16, 166, 380, 23]}, "sign-meeting": {"hand": [295, 141, 71, 17], "roster": [17, 234, 378, 464], "sign": [31, 126, 252, 48]}, "sign-meeting-new": {"chips": [76, 455, 95, 40], "picker": [31, 401, 350, 44], "title": [31, 120, 350, 48], "when": [31, 212, 169, 48]}, "sign-meeting-new-bottom": {"group": [71, 452, 310, 48], "me": [31, 617, 350, 21], "members": [31, 511, 350, 62], "submit": [31, 705, 350, 44]}, "sign-mine": {}, "signature": {"default": [267, 96, 112, 21], "hand": [16, 77, 380, 302], "stamp": [16, 391, 380, 302]}, "signature-draw": {"pad": [17, 567, 378, 224], "save": [338, 804, 58, 44]}, "signature-empty": {"draw": [33, 318, 100, 44], "stamp": [33, 633, 130, 44]}, "sports": {"bracket": [16, 77, 380, 262], "match": [29, 394, 354, 129], "rounds": [98, 352, 50, 32], "score": [116, 176, 17, 14]}, "sub-calc": {"calendar": [31, 466, 350, 21], "date": [31, 316, 169, 44], "go": [31, 501, 350, 44], "periods": [31, 374, 350, 113], "reason": [212, 316, 169, 44], "tabs": [16, 77, 380, 50], "teacher": [31, 229, 350, 44]}, "sub-dates": {"byHand": [278, 520, 71, 17], "dates": [43, 117, 255, 68], "request": [31, 508, 235, 40], "tools": [31, 460, 350, 36]}, "sub-inbox": {"pending": [16, 316, 380, 21], "proxy": [31, 651, 220, 40], "register": [16, 139, 380, 44], "rooms": [16, 243, 380, 65], "tab": [268, 80, 125, 44]}, "sub-requests": {"accept": [31, 611, 185, 40], "byHand": [228, 623, 71, 17], "card": [16, 407, 380, 257], "reject": [307, 611, 56, 40], "tab": [206, 80, 187, 44]}, "sub-result": {"calendar": [31, 120, 350, 42], "date": [43, 317, 279, 40], "firstStep": [31, 264, 350, 23], "plan1": [31, 207, 350, 49]}, "today": {"board": [31, 87, 48, 20], "days": [180, 305, 40, 21], "mynep": [31, 452, 39, 20], "prayer": [17, 120, 378, 42]}, "today-2": {"changes": [17, 321, 378, 45], "events": [31, 94, 64, 20]}, "tt-class": {"picker": [16, 135, 380, 44], "tabs": [16, 77, 380, 50]}, "tt-free": {"name": [31, 395, 60, 40], "rooms": [16, 212, 380, 123], "teachers": [16, 347, 380, 343]}, "tt-free-nep": {}, "tt-my": {"away": [191, 516, 61, 87], "band": [191, 226, 61, 87], "changed": [191, 606, 61, 68], "pending": [322, 317, 61, 68], "picker": [16, 135, 380, 44], "tabs": [16, 77, 380, 50], "today": [191, 389, 61, 68]}, "tt-pop": {"band": [191, 226, 61, 87], "pop": [29, 317, 354, 115]}, "weekly": {"mine": [44, 526, 324, 76], "seg": [206, 171, 187, 44]}};
 window.R = function (s, k) { var a = (window.SHOT_RECTS[s] || {})[k]; if (!a) { if (window.console) console.warn('rect 없음', s, k); return null; } return a; };

diff --git a/scenes.js b/scenes.js
@@ -702,7 +702,7 @@
       { t: '받은 비밀번호를 넣고 <span class="k">로그인</span>', s: 0, r: R("login", "go") },
       { t: '처음이면 새 비밀번호를 정합니다. <b>8자 이상, 영문과 숫자</b>를 함께', s: 1, r: R("password", "new") },
       { t: '<span class="k">비밀번호 변경</span>을 누르면 끝', s: 1, r: R("password", "go") },
-      { t: '홈 화면: 오늘 내 수업·<span class="q">처리할 넵</span>·<span class="q">「오늘 알림」</span>이 한눈에', s: 2 }
+      { t: '홈 화면: 오늘 학교(<span class="q">빼꼼</span>)·내 수업·<span class="q">처리할 넵</span>이 한눈에', s: 2 }
     ],
     note: { html: '<img src="img/qr.svg" alt="" style="width:76px;height:76px;flex:none;border-radius:8px"><span>이름이 안 나오면 <b>초성(ㅎㄱㄷ)</b>으로도 찾습니다. 비밀번호를 잊으셨으면 <b>교목실</b>에서 바로 맞춰 드립니다.</span>' },
     screens: [shot("login"), shot("password"), shot("home")],
@@ -944,27 +944,29 @@
 
   practice({
     id: "home", part: 3, num: null, label: "새 홈 화면 둘러보기", min: 0.8, isNew: true,
-    chips: [{ t: "NEW", c: "new" }, { t: "둘러보기", c: "ghost" }], title: "홈 화면, 이렇게 <em>정리됐어요</em>",
+    chips: [{ t: "NEW", c: "new" }, { t: "둘러보기", c: "ghost" }], title: "홈 화면, 이렇게 <em>바뀌었어요</em>",
     steps: [
-      { t: '큰 글씨는 <b>선생님마다 다른 한마디</b>. 오른쪽 위 <span class="k">종</span>은 나에게 온 알림', g: '큰 글씨는 <b>선생님마다 다른 한마디</b>(AI가 그날 내 수업·당번·교체를 보고 씁니다). 오른쪽 위 <span class="k">종</span>은 나에게 온 알림 모음', s: 0, r: R("home", "hero"), newf: true },
-      { t: '세 칸 <span class="q">수업 · 일정 · 빼꼼</span>: 누르면 나오는 화면과 <b>같은 숫자</b>', g: '세 칸 <span class="q">수업 · 일정 · 빼꼼</span>: 누르면 나오는 화면과 <b>같은 숫자</b>. 일정은 「일정 3 · 넵 2」처럼 나눠 세고, 빼꼼은 「공지 N · 교체 N」', s: 0, r: R("home", "tiles"), z: 1.9 },
-      { t: '<span class="q">「처리할 넵 6건 · 새 메시지 4건」</span> 줄이 맨 위에 가장 크게 — 누르면 넵 「받은」 탭', s: 0, r: R("home", "nep"), newf: true, z: 1.8 },
-      { t: '오늘 시간표: 지금 교시에 <span class="q">「지금」</span>, 지난 교시는 흐리게, 교체는 「바뀜」', g: '오늘 시간표: 지금 교시에 노란 칸 <span class="q">「지금」</span>(쉬는 시간엔 점선 「다음」), 지난 교시는 흐리게. 교체로 들어온 수업은 초록 「바뀜」, 넘긴 교시는 「교체」. 칸의 점은 그 교시에 겹친 일정', s: 0, r: R("home", "now"), newf: true, z: 1.9 },
-      { t: '<span class="q">「오늘 알림」</span>: 공지·오늘 바뀐 수업·넵 일정·특별 일정, 그 아래 <b>급식</b>', s: 1, r: R("home-3", "alerts") },
-      { t: '맨 아래 <span class="q">「다가오는 일정」</span>: 오늘부터 7일, 누르면 그날 달력', s: 1, r: R("home-3", "upcoming"), newf: true }
+      { t: '큰 글씨는 <b>선생님마다 다른 한마디</b>. 오른쪽 위 <span class="k">종</span>은 나에게 온 알림', g: '큰 글씨는 <b>선생님마다 다른 한마디</b>(AI가 그날 내 수업·당번·교체를 보고 씁니다). 오른쪽 위 <span class="k">종</span>은 나에게 온 알림 모음', s: 0, r: R("home", "hero") },
+      { t: '<span class="q">「빼꼼 · 오늘 학교는」</span> 판: 일정·경건회·지도 세 줄, 어디를 눌러도 <b>빼꼼</b>', g: '<span class="q">「빼꼼 · 오늘 학교는」</span> 판: 오늘 <b>일정</b>(첫 일정 + 외 N건)·<b>경건회</b>(인도·말씀·찬송)·<b>지도</b>(등교·급식, 내 이름은 굵게) 세 줄. 판 어디를 눌러도 빼꼼 그날로 갑니다', s: 0, r: R("home", "peek"), newf: true, z: 1.6 },
+      { t: '판 오른쪽 위 알약 <span class="q">「공지 3 · 교체 5」</span> = 빼꼼의 공지·바뀐 수업 수', s: 0, r: R("home", "pill"), newf: true, z: 1.9 },
+      { t: '두 칸 <span class="q">내 수업 · 내 일정</span>: 누르면 <b>시간표·달력</b>', g: '두 칸 <span class="q">내 수업 · 내 일정</span>: 누르면 <b>시간표·달력</b>(오른쪽 화살표 = 누르는 칸). 내 일정은 「일정 3 · 넵 2」처럼 나눠 셉니다', s: 0, r: R("home", "tiles"), newf: true, z: 1.9 },
+      { t: '<span class="q">「처리할 넵 6건 · 새 메시지 4건」</span> 줄 — 누르면 넵 「받은」 탭', s: 0, r: R("home", "nep"), z: 1.8 },
+      { t: '오늘 시간표: 지금 교시에 <span class="q">「지금」</span>, 지난 교시는 흐리게, 교체는 「바뀜」', g: '오늘 시간표: 지금 교시에 노란 칸 <span class="q">「지금」</span>(쉬는 시간엔 점선 「다음」), 지난 교시는 흐리게. 교체로 들어온 수업은 초록 「바뀜」, 넘긴 교시는 「교체」. 칸의 점은 그 교시에 겹친 일정', s: 0, r: R("home", "now"), z: 1.9 },
+      { t: '그 아래 <b>급식</b>, 맨 아래 <span class="q">「다가오는 일정」</span>: 오늘부터 7일, 누르면 그날 달력', g: '그 아래 <b>급식</b>, 맨 아래 <span class="q">「다가오는 일정」</span>: 오늘부터 7일, 누르면 그날 달력. 그 주 주간소식이 올라오면 머리에 <span class="k">주간소식</span>', s: 1, r: R("home-3", "upcoming") }
     ],
-    gnote: { html: "<span>날짜와 지금 <b>날씨·미세먼지</b>는 한 줄(휴대폰에서는 최저·최고 기온을 숨겨 한 줄에 맞춥니다). 할 일이 있으면 <b>넵 탭·더보기 탭·앱 아이콘에 숫자</b>가 붙습니다. 급식이 없는 날은 급식 카드가 숨고, 주말에는 다음 등교일 수업·일정이 보입니다. 화면 속 이름·일정은 예시입니다.</span>" },
+    gnote: { html: "<span><b>저녁 7시부터는 「내일」 화면</b>입니다 — 빼꼼 판·두 칸·시간표·급식이 모두 내일 것으로 바뀌고 한마디는 「평안한 밤 되세요」. 주말·쉬는 날에는 다음 등교일 것이 보입니다. 홈의 <b>「오늘 알림」 카드는 없어졌습니다</b>(10월 28일) — 공지·교체 수는 빼꼼 판에, 새 공지는 알림·알림함·빼꼼에서 봅니다. 화면 속 이름·일정은 예시입니다.</span>" },
     screens: [shot("home"), shot("home-3")],
-    lt: { tag: "NEW", title: "새 홈 화면", sub: "10월 16~17일 정리 · 글자 한 단계 크게" },
-    notes: "이번 주에 홈 화면을 정리했습니다. 큰 글씨 한마디는 <b>선생님마다</b> 다릅니다 — 오늘 교체로 수업을 맡아 준 선생님께는 “고마워요”, 급식지도 당번에게는 “점심 챙기세요”처럼요(규칙과 AI가 함께 고르고, 퇴근했다고 단정하거나 다그치는 말은 쓰지 않습니다). 세 칸 숫자는 <b>누르면 나오는 화면과 같은 셈</b>으로 맞췄고, <b>처리할 넵</b> 줄을 가장 크게 올렸습니다. 오늘 시간표는 지금 교시에 「지금」, 쉬는 시간엔 다음 교시에 「다음」. 맨 아래는 주간소식 대신 내용대로 <b>「다가오는 일정」</b>입니다. 화면 속 이름·일정은 예시입니다."
+    lt: { tag: "NEW", title: "새 홈 화면", sub: "10월 28일 · 빼꼼 판과 두 칸" },
+    notes: "10월 28일에 홈 위쪽 파란 띠를 다시 정리했습니다. 띠의 주인공은 <b>빼꼼 판</b>입니다 — 오늘 일정, 경건회(인도·말씀·찬송), 등교·급식 지도 세 줄이 모두에게 보이고, 판 어디를 눌러도 빼꼼으로 갑니다. 오른쪽 알약 「공지 3 · 교체 5」는 빼꼼의 공지·바뀐 수업 수입니다. 그 아래 두 칸은 <b>내 수업</b>(시간표)과 <b>내 일정</b>(달력)입니다. 예전 「오늘 알림」 카드는 띠와 겹쳐서 없앴습니다. <b>저녁 7시부터</b>는 홈 전체가 내일 것으로 바뀌어, 퇴근길에 내일 수업·일정을 봅니다. 큰 글씨 한마디는 선생님마다 다르고(퇴근했다고 단정하거나 다그치는 말은 쓰지 않습니다), 화면 속 이름·일정은 예시입니다."
   });
 
   practice({
     id: "today", part: 3, num: null, label: "빼꼼 둘러보기", min: 0.5,
     chips: [{ t: "둘러보기" }, { t: "옛 현황판", c: "ghost" }], title: "오늘 달라진 것은 <em>빼꼼</em>",
     steps: [
-      { t: '홈의 <span class="q">「빼꼼」</span> 칸이나 더보기 맨 위 <span class="k">빼꼼</span>', s: 0, r: R("home", "tiles"), z: 1.9 },
+      { t: '홈 위쪽 <span class="q">「빼꼼」</span> 판(어디를 눌러도)이나 더보기 맨 위 <span class="k">빼꼼</span>', s: 0, r: R("home", "peek"), z: 1.6 },
       { t: '맨 위 <span class="q">「알림판」</span>: 고정 공지와 올린 지 하루 안 된 공지', s: 1, r: R("today", "board") },
+      { t: '알림판 첫 줄 <span class="q">「금주의 기도제목」</span>: 누르면 월요교사기도회 순서지(말씀·기도제목)', s: 1, r: R("today", "prayer"), newf: true },
       { t: '요일을 눌러 이번 주 다른 날도 봅니다', s: 1, r: R("today", "days") },
       { t: '<span class="q">「특별 일정」</span>: 학사일정과 <b>주간소식</b>을 한 목록으로', s: 2, r: R("today-2", "events") },
       { t: '<span class="q">「바뀐 수업」</span>: 이름 없이 <b>과목만</b>, 「수락 대기」·「보강 필요」·「교실 배정 필요」도', s: 2, r: R("today-2", "changes") }
@@ -979,14 +981,15 @@
     id: "info", deck: false, part: 3, num: null, label: "일정·주간소식·급식", min: 0.8,
     chips: [{ t: "둘러보기" }], title: "일정·주간소식·급식도 <em>한곳에</em>",
     steps: [
-      { t: '홈 「다가오는 일정」의 <span class="k">달력</span>: 학사일정 달력, 휴대폰에선 점으로(가로로 두면 일정 이름)', s: 0, r: R("calendar", "today"), z: 1.9 },
-      { t: '<span class="q">「주간」</span>: 넵 마감·넵 일정, 내 출장·교체 수업은 <b>나에게만</b> 겹쳐 보여요', s: 1 },
-      { t: '<span class="k">주간소식</span>: 요일마다 카드로 정리, 위 <span class="k">원본 보기 ›</span>로 PDF 그대로', s: 2 },
-      { t: '<span class="k">급식</span>: 이번 주 중식과 알레르기 번호', s: 3 }
+      { t: '홈 「다가오는 일정」의 <span class="k">달력</span>: 학사일정 달력, 휴대폰에선 점으로(가로로 두면 일정 이름)', s: 0, r: R("calendar", "grid") },
+      { t: '일정 맨 위 <span class="q">「월간 | 주간소식」</span>: <span class="k">주간소식</span>을 누르면 그 주 주간소식', s: 0, r: R("calendar", "seg"), newf: true },
+      { t: '주간소식은 요일마다 카드, 그 안의 <span class="q">「나에게만」</span>: 넵 마감·넵 일정, 내 교체 수업', s: 1, r: R("weekly", "mine"), newf: true, z: 1.6 },
+      { t: '<span class="k">원본 보기</span>: 교무부 PDF 그대로(늘 보시던 인쇄물)', s: 1, r: R("weekly", "seg"), z: 1.9 },
+      { t: '<span class="k">급식</span>: 이번 주 중식과 알레르기 번호', s: 2 }
     ],
-    gnote: { html: "<span>학사일정은 학교 구글 캘린더에서 저절로 들어옵니다. 주간소식은 교무부 폴더에 그 주 PDF가 올라오면 <b>평일 아침 7시 반쯤 저절로 발행</b>됩니다. 휴대폰에서 읽기 쉽게 <b>요일마다 카드</b>(시험 시간표·교실 변경 같은 작은 표도 그대로)로 보이고, 표를 그대로 보고 싶으면 위 「원본 보기 ›」. PDF 뒷장의 <b>교무부 안내문</b>(감독 유의사항·출결 증빙 등)은 그림 그대로 붙고, AI 해죠가 그 내용까지 읽어 답합니다(10월 23일). 넵 마감·넵 속 일정·내 수업교체 표시는 학교 달력에 들어가지 않고 그 선생님 화면에만 보입니다.</span>" },
-    screens: [shot("calendar"), shot("calendar-list"), shot("weekly"), shot("meals")],
-    notes: "일정은 학교 구글 캘린더의 학사일정을 그대로 보여 주고, 그 위에 <b>나에게만</b> 넵 마감·넵 속 일정·내 출장과 교체 수업이 겹쳐 보입니다(주간 목록에서 「수업 교체 · 들어가는 수업」처럼). 주간소식은 교무부가 내는 주간소식 PDF를 요일마다 카드로 정리해 보여 주고, 「원본 보기 ›」를 누르면 PDF 그대로입니다. 뒷장 교무부 안내문도 그림으로 붙고, AI 해죠에게 「이번 주 감독 유의사항 알려 줘」처럼 물어도 됩니다. 급식은 NEIS 급식을 그대로 보여 줍니다."
+    gnote: { html: "<span>학사일정은 학교 구글 캘린더에서 저절로 들어옵니다. 주간소식은 교무부 폴더에 그 주 PDF가 올라오면 <b>평일 아침 7시 반쯤 저절로 발행</b>됩니다. 휴대폰에서 읽기 쉽게 <b>요일마다 카드</b>(시험 시간표·교실 변경 같은 작은 표도 그대로)로 보이고, 표를 그대로 보고 싶으면 위 「원본 보기」. PDF 뒷장의 <b>교무부 안내문</b>(감독 유의사항·출결 증빙 등)은 그림 그대로 붙고, AI 해죠가 그 내용까지 읽어 답합니다(10월 23일). 넵 마감·넵 속 일정·내 수업교체 표시는 학교 달력에 들어가지 않고 그 선생님 화면(달력, 주간소식 「나에게만」)에만 보입니다. 전에 있던 일정 「주간」 목록은 10월 28일에 「주간소식」으로 바뀌었습니다.</span>" },
+    screens: [shot("calendar"), shot("weekly"), shot("meals")],
+    notes: "일정은 학교 구글 캘린더의 학사일정을 그대로 보여 주고, 그 위에 <b>나에게만</b> 넵 마감·넵 속 일정·내 출장과 교체 수업이 겹쳐 보입니다. 일정 맨 위 「월간 | 주간소식」에서 주간소식을 누르면, 교무부가 내는 주간소식 PDF를 요일마다 카드로 정리해 보여 주고, 그날 카드 안 「나에게만」에 내 넵 마감과 교체 수업이 붙습니다(「수업 교체 · 들어가는 수업」처럼). 「원본 보기」를 누르면 PDF 그대로입니다. 뒷장 교무부 안내문도 그림으로 붙고, AI 해죠에게 「이번 주 감독 유의사항 알려 줘」처럼 물어도 됩니다. 급식은 NEIS 급식을 그대로 보여 줍니다."
   });
 
   practice({

diff --git a/guide.html b/guide.html
@@ -151,7 +151,8 @@ footer { color: var(--muted); font-size: 13px; text-align: center; padding: 10px
     <details><summary>PC 설치본 창이 검게만 보여요</summary><p>설치 직후라면 <b>PC를 한 번 다시 시작</b>해 주세요. 그래도 같으면 교목실로 알려 주세요.</p></details>
     <details><summary>PC 설치본 창을 닫았는데 알림이 계속 와요</summary><p>창의 ✕는 숨기기입니다(알림을 받으려고 트레이에 남아요). 완전히 끄려면 화면 오른쪽 아래 트레이 아이콘을 오른쪽 클릭해 <b>「끝내기」</b>, 윈도우를 켤 때 저절로 켜지지 않게 하려면 같은 메뉴의 <b>「윈도우 시작 때 자동 실행」</b>을 끕니다.</p></details>
     <details><summary>앱 설치 메뉴가 안 보여요(안드로이드)</summary><p>삼성 인터넷이나 다른 앱 안에서 열렸다면 주소(mjms-office.vercel.app)를 <b>크롬</b>에 붙여 넣어 다시 엽니다.</p></details>
-    <details><summary>「현황판」·「공지」 메뉴가 없어졌어요</summary><p>현황판은 이름이 <b>「빼꼼」</b>으로 바뀌었습니다(더보기 맨 위). 공지는 빼꼼 맨 위 「알림판」과 홈의 「오늘 알림」 카드에 걸립니다.</p></details>
+    <details><summary>「현황판」·「공지」 메뉴가 없어졌어요</summary><p>현황판은 이름이 <b>「빼꼼」</b>으로 바뀌었습니다(더보기 맨 위). 공지는 빼꼼 맨 위 「알림판」에 걸리고, 홈 위쪽 빼꼼 판의 알약에 공지 수가 보입니다(10월 28일에 홈의 「오늘 알림」 카드는 없어졌습니다).</p></details>
+    <details><summary>저녁에 홈을 열면 내일 시간표가 보여요</summary><p>10월 28일부터 <b>저녁 7시가 지나면</b> 홈이 「내일」 화면으로 바뀝니다. 빼꼼 판·「내일 내 수업」·「내일 내 일정」·시간표·급식이 모두 내일 것이고, 오늘 것은 빼꼼·달력에서 그대로 볼 수 있습니다. 주말·쉬는 날에는 다음 등교일 것이 보입니다.</p></details>
     <details><summary>「결석 접수」·「체험학습 신청」 메뉴가 안 보여요</summary><p>운영 방식을 협의하는 동안 관리자만 봅니다. 정해지면 다시 열립니다.</p></details>
     <details><summary>내 출장·수업교체가 다른 선생님께 보이나요?</summary><p>사유(출장·연수 등)는 <b>내 일정과 내 홈에만</b> 보입니다. 빼꼼·아침 알림·다른 선생님 개인 시간표에는 나오지 않고, 학급·교실 시간표에는 바뀐 과목만 선생님 이름 없이 보입니다.</p></details>
     <details><summary>넵 마감이 내 일정에 떴어요</summary><p>나에게 온 넵(처리 전)과 내가 보낸 넵의 마감, 넵 속 일정은 <b>나에게만</b> 일정·빼꼼에 보입니다. 처리하면 마감은 사라지고, 학교 학사일정에는 들어가지 않습니다.</p></details>

diff --git a/index.html b/index.html
@@ -139,7 +139,13 @@ main { max-width: 1040px; margin: -26px auto 0; padding: 0 16px 60px; position: 
     </ol>
   </section>
   <section class="new">
-    <h2><span class="nw">NEW</span> 10월 21~25일에 바뀐 것</h2>
+    <h2><span class="nw">NEW</span> 10월 28일에 바뀐 것</h2>
+    <ul>
+      <li><a href="guide.html#home">홈 위쪽이 「빼꼼 · 오늘 학교는」 판(일정·경건회·지도)과 두 칸 「내 수업 · 내 일정」으로</a> — 판 어디를 눌러도 빼꼼, 오른쪽 알약은 공지·교체 수, 홈의 「오늘 알림」 카드는 없어짐</li>
+      <li><a href="guide.html#home">저녁 7시부터 홈은 「내일」 화면</a> — 빼꼼 판·두 칸·시간표·급식이 모두 내일 것</li>
+      <li><a href="guide.html#info">일정 맨 위 「월간 | 주간소식」 — 주간소식 요일 카드 안 「나에게만」에 내 넵 마감·교체 수업</a></li>
+    </ul>
+    <details class="older"><summary>10월 21~25일에 바뀐 것</summary>
     <ul>
       <li><a href="guide.html#p9">AI 해죠 첫 화면: 「○○ 선생님, 무엇을 도와드릴까요?」와 그날에 맞춘 추천 질문 줄, 아래는 ＋ · 글 칸 · 마이크 한 줄</a> — <a href="guide.html#aiDeep">파일·사진 붙이기와 깊게 생각하기는 ＋ 안에</a>, 마이크로 말하면 글로 적힘</li>
       <li><a href="guide.html#nepFwd">넵 전달·받는 분 더하기 — 빠뜨린 분께 같은 글·첨부를</a>, 전체 교직원에게 보낸 넵의 일정은 「학사일정에 올리기」</li>
@@ -148,6 +154,7 @@ main { max-width: 1040px; margin: -26px auto 0; padding: 0 16px 60px; position: 
       <li><a href="guide.html#boardKinds">칠판 아침 8:45 「오늘 바뀐 수업」 쪽지를 소리 내어 한 번</a>, <a href="guide.html#p14">자료실 사진·스캔 PDF도 AI 해죠가 읽음</a></li>
       <li><a href="guide.html#p2a">휴대폰 앱을 다시 열면 화면을 저절로 새로 읽음</a>, <a href="guide.html#pc">PC 프로그램은 알림 설정의 「PC 프로그램 받기」(0.3.5 — 켤 때 새 판, AI에 파일 끌어 놓기)</a>, 아래 탭은 유리 물방울 모양</li>
     </ul>
+    </details>
     <details class="older"><summary>10월 19~20일에 바뀐 것</summary>
     <ul>
       <li><a href="guide.html#pc">교무실 PC에 설치본 — 오른쪽 가장자리 좁은 창, 넵·알림은 오른쪽 아래 알림 카드(잎사귀 편지), 켜면 저절로</a></li>
